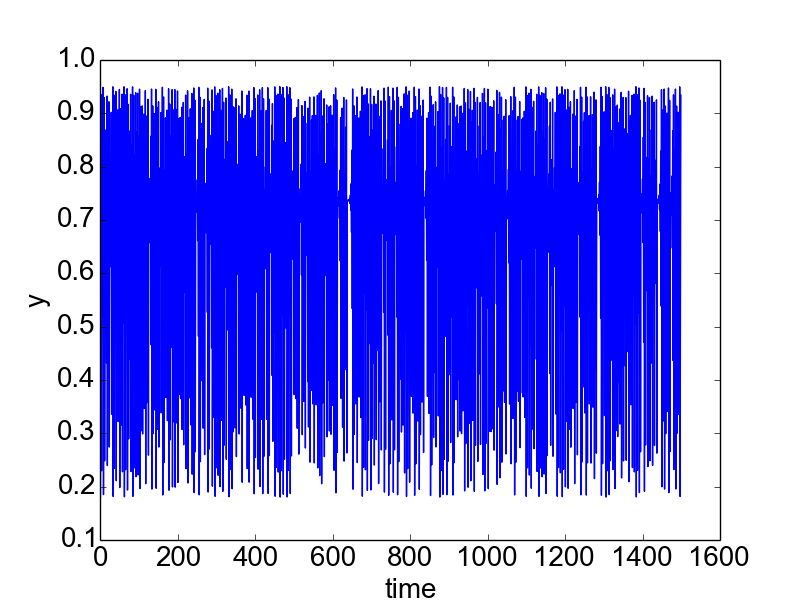
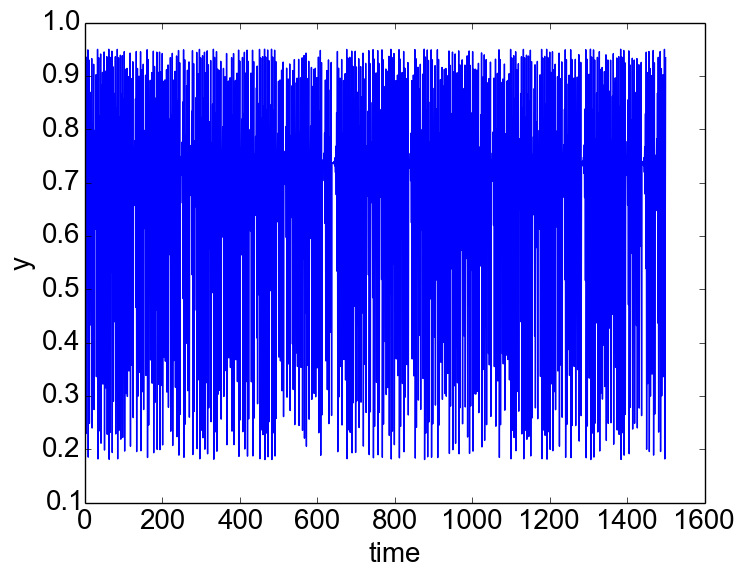
redo all plots

Changed region(s): [[0.0, 0.0, 0.9906, 0.9983]]

diff --git a/stack.py b/stack.py
@@ -187,7 +187,7 @@ def spectrum_fbm():
     plt.loglog(f, np.sqrt(Pxx))
     plt.xlabel("frequency")
     plt.ylabel("PSD")
-    plt.savefig("spectrum_fbm")
+    plt.savefig("spectrum_fbm", bbox_inches="tight")
 
 def spectrum_logistic():
     logit = gen_logistic_map(1500)
@@ -196,7 +196,7 @@ def spectrum_logistic():
     plt.loglog(f, np.sqrt(Pxx))
     plt.xlabel("frequency")
     plt.ylabel("PSD")
-    plt.savefig("spectrum_logistic")
+    plt.savefig("spectrum_logistic", bbox_inches="tight")
 
 def spectrum_sinusoid():
     sinusoid = np.sin(np.linspace(0, 40 * np.pi, 1500))
@@ -205,7 +205,7 @@ def spectrum_sinusoid():
     plt.loglog(f, np.sqrt(Pxx))
     plt.xlabel("frequency")
     plt.ylabel("PSD")
-    plt.savefig("spectrum_sinusoid")
+    plt.savefig("spectrum_sinusoid", bbox_inches="tight")
 
 def spectrum_vr():
     vr = open_vr()
@@ -214,7 +214,7 @@ def spectrum_vr():
     plt.loglog(f, np.sqrt(Pxx))
     plt.xlabel("frequency")
     plt.ylabel("PSD")
-    plt.savefig("spectrum_vr")
+    plt.savefig("spectrum_vr", bbox_inches="tight")
 
 
 def plot_fbm():
@@ -223,7 +223,7 @@ def plot_fbm():
     plt.plot(fbm)
     plt.xlabel("time")
     plt.ylabel("y")
-    plt.savefig("plot_fbm")
+    plt.savefig("plot_fbm", bbox_inches="tight")
 
 def plot_logistic():
     logit = gen_logistic_map(1500)
@@ -231,7 +231,7 @@ def plot_logistic():
     plt.plot(logit)
     plt.xlabel("time")
     plt.ylabel("y")
-    plt.savefig("plot_logistic")
+    plt.savefig("plot_logistic", bbox_inches="tight")
 
 def plot_sinusoid():
     sinusoid = np.sin(np.linspace(0, 40 * np.pi, 1500))
@@ -239,7 +239,7 @@ def plot_sinusoid():
     plt.xlabel("time")
     plt.ylabel("y")
     plt.plot(sinusoid)
-    plt.savefig("plot_sinusoid")
+    plt.savefig("plot_sinusoid", bbox_inches="tight")
 
 def plot_vr():
     vr = open_vr()
@@ -247,7 +247,7 @@ def plot_vr():
     plt.plot(vr)
     plt.xlabel("time")
     plt.ylabel("y")
-    plt.savefig("plot_vr")
+    plt.savefig("plot_vr", bbox_inches="tight")
 
 def graphify(ts):
     ts_map, idxs = discretize(ts, bucket_size=0.05)
@@ -276,7 +276,7 @@ def plot_stack_deg(ts, name):
     plt.xlabel("rank")
     plt.ylabel("degree")
     plt.loglog(degrees)
-    plt.savefig(name)
+    plt.savefig(name, bbox_inches="tight")
 
 def degree_fbm():
     fbm = np.load("quick_fbm.npy")[0:1500]
@@ -319,24 +319,27 @@ def stats_vr():
     print "vr clustering: ", nx.average_clustering(net.to_undirected())
 
 def inverse_stack():
+    plt.close()
     vr = open_vr()
     _, resampled, _ = graphify(vr)
     plt.plot(resampled)
-    plt.savefig("resampled_stack")
+    plt.xlabel("time")
+    plt.ylabel("y")
+    plt.savefig("resampled_stack", bbox_inches="tight")
 
 if __name__ == "__main__":
     font = {'size': 20}
     matplotlib.rc('font', **font)
-    plot_fbm()
-    plot_logistic()
-    plot_sinusoid()
-    plot_vr()
-    degree_fbm()
-    degree_logistic()
-    degree_sinusoid()
-    degree_vr()
-    spectrum_fbm()
-    spectrum_logistic()
-    spectrum_sinusoid()
-    spectrum_vr()
+    #plot_fbm()
+    #plot_logistic()
+    #plot_sinusoid()
+    #plot_vr()
+    #degree_fbm()
+    #degree_logistic()
+    #degree_sinusoid()
+    #degree_vr()
+    #spectrum_fbm()
+    #spectrum_logistic()
+    #spectrum_sinusoid()
+    #spectrum_vr()
     inverse_stack()
